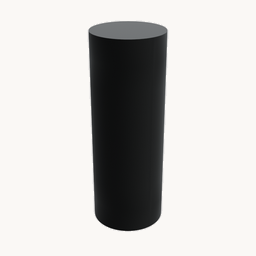
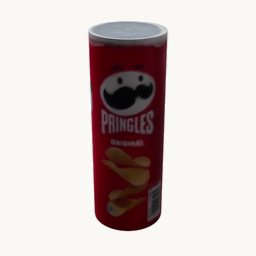
Bake pringles texture from the colored scan onto the existing UV map
pringles/raw_mesh/pringles.obj already carried a full cylinder unwrap but
referenced an untitled.mtl that was never shipped, so it rendered flat grey.
Transfer the vertex colors of object_6d/data/mesh/pringles.ply (a scan with
slightly different geometry) onto that UV layout: align the scan to the model
by principal axes plus anisotropic extent matching, then look up the nearest
colored surface point per texel.

The model's geometry, origin and UVs are untouched - only the texture image
and its MTL are new. Adds wiki/bake_texture_from_scan.py so the same transfer
works for the other untextured objects, and re-renders the gallery thumbnail.

Changed region(s): [[0.3438, 0.0625, 0.6562, 0.9062], [0.625, 0.7812, 0.6562, 0.8125]]

diff --git a/wiki/bake_texture_from_scan.py b/wiki/bake_texture_from_scan.py
@@ -1,0 +1,260 @@
+#!/usr/bin/env python3
+"""Bake vertex colors from a colored scan onto a clean UV-mapped mesh.
+
+The clean mesh (target) keeps its geometry and UV layout; for every texel we
+find the corresponding surface point, look up the nearest point on the aligned
+scan (source) and write its interpolated color.
+
+    python bake_texture_from_scan.py TARGET.obj SOURCE.ply OUT_DIR [options]
+
+The two meshes do not need to share a coordinate frame: the source is aligned
+onto the target by matching principal axes and extents (both are assumed to be
+single connected objects), optionally refined with ICP.
+"""
+import argparse
+import sys
+from pathlib import Path
+
+import numpy as np
+import trimesh
+from PIL import Image
+from scipy.ndimage import distance_transform_edt
+from scipy.spatial import cKDTree
+
+
+# --------------------------------------------------------------------------
+# alignment
+# --------------------------------------------------------------------------
+def principal_frame(points):
+    """Return (center, R) where R's rows are the principal axes, longest first."""
+    center = points.mean(axis=0)
+    X = points - center
+    if len(X) > 200_000:
+        X = X[:: len(X) // 200_000 + 1]
+    _, _, vt = np.linalg.svd(X, full_matrices=False)
+    if np.linalg.det(vt) < 0:
+        vt[2] *= -1
+    return center, vt
+
+
+def axis_metrics(points, center, axis):
+    """Axial extent (with mid point) and robust radius around `axis`."""
+    t = (points - center) @ axis
+    radial = np.linalg.norm((points - center) - np.outer(t, axis), axis=1)
+    return t.min(), t.max(), np.percentile(radial, 95)
+
+
+def align_source(source, target, flip=False, yaw_deg=0.0, icp=True):
+    """Return the 4x4 transform mapping source coordinates onto the target."""
+    sp = np.asarray(source.vertices)
+    tp = np.asarray(target.vertices)
+
+    s_center, s_R = principal_frame(sp)
+    t_center, t_R = principal_frame(tp)
+    s_lo, s_hi, s_rad = axis_metrics(sp, s_center, s_R[0])
+    t_lo, t_hi, t_rad = axis_metrics(tp, t_center, t_R[0])
+
+    # source -> canonical: long axis to +Z, axial mid point to the origin
+    to_canon = np.eye(4)
+    to_canon[:3, :3] = s_R
+    to_canon[:3, 3] = -s_R @ s_center
+    to_canon[2, 3] -= (s_lo + s_hi) / 2.0
+
+    # anisotropic scale: match axial extent and radius separately, so a scan
+    # that is a few percent off in only one direction still lands correctly
+    scale = np.diag([
+        t_rad / s_rad, t_rad / s_rad, (t_hi - t_lo) / (s_hi - s_lo), 1.0
+    ])
+
+    adjust = np.eye(4)
+    if flip:  # 180 deg about X: swap which end of the axis is which
+        adjust[:3, :3] = np.array([[1, 0, 0], [0, -1, 0], [0, 0, -1]], float)
+    if yaw_deg:
+        a = np.radians(yaw_deg)
+        rot = np.array([[np.cos(a), -np.sin(a), 0],
+                        [np.sin(a), np.cos(a), 0],
+                        [0, 0, 1]], float)
+        adjust[:3, :3] = rot @ adjust[:3, :3]
+
+    # canonical -> target frame
+    from_canon = np.eye(4)
+    from_canon[:3, :3] = t_R.T
+    from_canon[:3, 3] = t_center + t_R.T @ np.array([0, 0, (t_lo + t_hi) / 2.0])
+
+    T = from_canon @ adjust @ scale @ to_canon
+
+    if icp:
+        probe = trimesh.sample.sample_surface(source, 20000)[0]
+        probe = trimesh.transform_points(probe, T)
+        T_icp, _, cost = trimesh.registration.icp(
+            probe, target, initial=np.eye(4), max_iterations=60, scale=False
+        )
+        print(f"  ICP residual: {cost * 1000:.3f} mm")
+        T = T_icp @ T
+    return T
+
+
+# --------------------------------------------------------------------------
+# baking
+# --------------------------------------------------------------------------
+def rasterize_uv(uv, faces, size, pad=1.0):
+    """Rasterize UV triangles.
+
+    Returns (pixel_index, face_index, barycentric) for every covered texel.
+    `pad` dilates each triangle by that many pixels so texels straddling a
+    UV edge still get a sample (avoids one-pixel seam gaps).
+    """
+    px = np.stack([uv[:, 0] * size, (1.0 - uv[:, 1]) * size], axis=1)
+    tri = px[faces]  # (F, 3, 2)
+
+    pix_idx, face_idx, bary = [], [], []
+    lo = np.floor(tri.min(axis=1) - pad).astype(int)
+    hi = np.ceil(tri.max(axis=1) + pad).astype(int)
+    np.clip(lo, 0, size - 1, out=lo)
+    np.clip(hi, 0, size - 1, out=hi)
+
+    for f in range(len(faces)):
+        x0, y0 = lo[f]
+        x1, y1 = hi[f]
+        if x1 < x0 or y1 < y0:
+            continue
+        xs = np.arange(x0, x1 + 1) + 0.5
+        ys = np.arange(y0, y1 + 1) + 0.5
+        gx, gy = np.meshgrid(xs, ys)
+        pts = np.stack([gx.ravel(), gy.ravel()], axis=1)
+
+        a, b, c = tri[f]
+        v0, v1, v2 = b - a, c - a, pts - a
+        den = v0[0] * v1[1] - v1[0] * v0[1]
+        if abs(den) < 1e-12:
+            continue
+        w1 = (v2[:, 0] * v1[1] - v1[0] * v2[:, 1]) / den
+        w2 = (v0[0] * v2[:, 1] - v2[:, 0] * v0[1]) / den
+        w0 = 1.0 - w1 - w2
+        w = np.stack([w0, w1, w2], axis=1)
+
+        # slack in barycentric units ~= pad pixels
+        slack = pad / max(np.abs(tri[f] - tri[f].mean(axis=0)).max(), 1e-9)
+        inside = (w >= -slack).all(axis=1)
+        if not inside.any():
+            continue
+        sel = pts[inside]
+        col = sel[:, 0].astype(int)
+        row = sel[:, 1].astype(int)
+        pix_idx.append(row * size + col)
+        face_idx.append(np.full(inside.sum(), f))
+        bary.append(np.clip(w[inside], 0.0, 1.0))
+
+    if not pix_idx:
+        raise RuntimeError("UV rasterization produced no texels")
+    pix = np.concatenate(pix_idx)
+    fid = np.concatenate(face_idx)
+    bar = np.concatenate(bary)
+    bar /= bar.sum(axis=1, keepdims=True)
+    # keep one sample per texel (interior samples beat padded ones)
+    order = np.lexsort((np.abs(bar - 1.0 / 3).max(axis=1), pix))
+    pix, fid, bar = pix[order], fid[order], bar[order]
+    keep = np.ones(len(pix), bool)
+    keep[1:] = pix[1:] != pix[:-1]
+    return pix[keep], fid[keep], bar[keep]
+
+
+def fill_background(image, mask, background):
+    """Nearest-neighbour dilation of baked texels into the unused UV space."""
+    _, idx = distance_transform_edt(~mask, return_indices=True)
+    filled = image[idx[0], idx[1]]
+    far = distance_transform_edt(~mask) > max(image.shape) * 0.05
+    filled[far] = background
+    return filled
+
+
+def bake(target, source, size, samples, background):
+    uv = np.asarray(target.visual.uv)
+    faces = np.asarray(target.faces)
+    verts = np.asarray(target.vertices)
+
+    print(f"  rasterizing {len(faces)} faces into {size}x{size}...")
+    pix, fid, bar = rasterize_uv(uv, faces, size)
+    print(f"  {len(pix)} texels covered ({100 * len(pix) / size ** 2:.1f}% of the map)")
+
+    points = np.einsum("ijk,ij->ik", verts[faces[fid]], bar)
+
+    print(f"  sampling {samples} colored points on the source...")
+    sp, _, sc = trimesh.sample.sample_surface(source, samples, sample_color=True)
+    sc = np.asarray(sc)[:, :3].astype(np.uint8)
+
+    print("  nearest-point color lookup...")
+    tree = cKDTree(np.asarray(sp))
+    dist, nn = tree.query(points, workers=-1)
+    print(f"  transfer distance: mean {dist.mean() * 1000:.2f} mm, "
+          f"p95 {np.percentile(dist, 95) * 1000:.2f} mm, max {dist.max() * 1000:.2f} mm")
+
+    image = np.full((size, size, 3), background, np.uint8)
+    mask = np.zeros(size * size, bool)
+    flat = image.reshape(-1, 3)
+    flat[pix] = sc[nn]
+    mask[pix] = True
+    return fill_background(flat.reshape(size, size, 3), mask.reshape(size, size),
+                           background)
+
+
+# --------------------------------------------------------------------------
+def main():
+    ap = argparse.ArgumentParser(description=__doc__,
+                                 formatter_class=argparse.RawDescriptionHelpFormatter)
+    ap.add_argument("target", help="clean mesh with UVs (.obj)")
+    ap.add_argument("source", help="colored scan (.ply with vertex colors)")
+    ap.add_argument("out_dir", help="directory for texture.png / textured.obj / .glb")
+    ap.add_argument("--size", type=int, default=2048, help="texture resolution")
+    ap.add_argument("--samples", type=int, default=4_000_000,
+                    help="surface samples drawn from the source")
+    ap.add_argument("--yaw", type=float, default=0.0,
+                    help="extra rotation (deg) of the source about the object axis")
+    ap.add_argument("--flip", action="store_true",
+                    help="flip the source end-for-end along its long axis")
+    ap.add_argument("--no-icp", action="store_true", help="skip ICP refinement")
+    ap.add_argument("--background", default="128,128,128",
+                    help="fill color for unused UV space, 'r,g,b'")
+    ap.add_argument("--name", default="texture", help="base name of the outputs")
+    args = ap.parse_args()
+
+    background = np.array([int(v) for v in args.background.split(",")], np.uint8)
+
+    target = trimesh.load(args.target, process=False)
+    source = trimesh.load(args.source, process=False)
+    if not isinstance(target, trimesh.Trimesh) or not isinstance(source, trimesh.Trimesh):
+        sys.exit("both inputs must be single triangle meshes")
+    if getattr(target.visual, "uv", None) is None:
+        sys.exit(f"{args.target} has no UV coordinates - unwrap it first")
+    if source.visual.kind not in ("vertex", "face", "texture"):
+        sys.exit(f"{args.source} carries no color ({source.visual.kind})")
+
+    print(f"target: {len(target.vertices)} verts, extents {np.round(target.extents, 4)}")
+    print(f"source: {len(source.vertices)} verts, extents {np.round(source.extents, 4)}")
+
+    print("aligning source onto target...")
+    T = align_source(source, target, flip=args.flip, yaw_deg=args.yaw,
+                     icp=not args.no_icp)
+    source.apply_transform(T)
+    print(f"  aligned source extents {np.round(source.extents, 4)}")
+
+    image = bake(target, source, args.size, args.samples, background)
+
+    out = Path(args.out_dir)
+    out.mkdir(parents=True, exist_ok=True)
+    tex_path = out / f"{args.name}.png"
+    Image.fromarray(image).save(tex_path)
+    print(f"wrote {tex_path}")
+
+    textured = target.copy()
+    textured.visual = trimesh.visual.TextureVisuals(
+        uv=np.asarray(target.visual.uv),
+        material=trimesh.visual.material.SimpleMaterial(image=Image.fromarray(image)),
+    )
+    textured.export(out / f"{args.name}.glb")
+    np.savetxt(out / f"{args.name}_transform.txt", T, fmt="%.9f")
+    print(f"wrote {out / (args.name + '.glb')} and the source->target transform")
+
+
+if __name__ == "__main__":
+    main()

diff --git a/wiki/CLAUDE.md b/wiki/CLAUDE.md
@@ -21,6 +21,24 @@ This directory contains the Python processing pipeline and the source HTML/JS fo
 - Meshes are centered and normalized to unit scale before rendering
 - Lighting: one directional light from camera position + one from above
 
+### bake_texture_from_scan.py
+- Bakes vertex colors from a colored scan onto a clean UV-mapped mesh, so an untextured
+  model can borrow the appearance of a scan whose geometry is close but not identical
+- The target mesh keeps its geometry, origin and UV layout untouched — only a texture
+  image is produced; the source scan is what gets moved
+- Alignment: principal axes + anisotropic extent matching (axial and radial scaled
+  separately), optionally refined with ICP (`--no-icp` to skip). `--flip` swaps which end
+  of the long axis is which, `--yaw` spins the scan about that axis
+- Baking: UV triangles are rasterized with 1px padding, each texel's 3D point looks up the
+  nearest of `--samples` colored surface points on the scan; unused UV space is filled by
+  nearest-neighbour dilation so mipmaps don't bleed background
+- Writes `<name>.png`, `<name>.glb` (preview) and `<name>_transform.txt` (source->target)
+- Example (pringles, whose `raw_mesh/pringles.obj` already had UVs but only a 2x2 grey
+  dummy texture):
+  `python bake_texture_from_scan.py ~/shared_data/object_processing/pringles/raw_mesh/pringles.obj \
+      ~/shared_data/object_6d/data/mesh/pringles.ply out --name pringles`
+  then drop the PNG next to the OBJ with an MTL matching its `mtllib`/`usemtl` names
+
 ### upload_to_hf.py
 - Uploads GLB files (`output/objects/`) to HuggingFace dataset repo `willi19/object_processing`
 - Uses `HfApi().upload_folder()` for single-commit bulk upload
